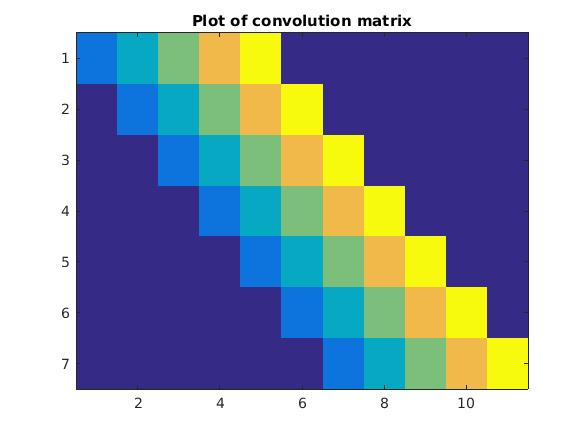
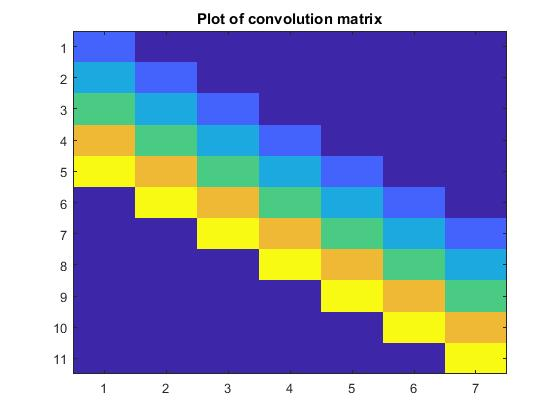
A

diff --git a/lab6/jhutter2.tex b/lab6/jhutter2.tex
@@ -84,15 +84,19 @@ $A = U \Sigma V^H $
 \begin{figure}[H]
 \includegraphics[scale =.5]{report7_eig}
 \end{figure}
+
+
 \begin{figure}[H]
 \includegraphics[scale =.4]{report7_1}
 \includegraphics[scale =.4]{report7_2}
-\includegraphics[scale =.4]{report7_3}
-
 \end{figure}
 
 \begin{figure}[H]
-\includegraphics[scale =.4]{report7_4}
+  \includegraphics[scale =.4]{report7_3}
+  \includegraphics[scale =.4]{report7_4}
+\end{figure}
+
+\begin{figure}[H]
 \includegraphics[scale =.4]{report7_5}
 \includegraphics[scale =.4]{report7_6}
 \end{figure}

diff --git a/lab6/PCAtransform.m b/lab6/PCAtransform.m
@@ -1,9 +1,4 @@
 function [ x_pca ] = PCAtransform( Ux, V, x_orig )
-    %[height,width] = size(x_orig);
-    x_hat = x_orig - Ux;
-    
-   %{ for i=1:height
-   %    x_hat(i,:) = x_orig(i,:) - Ux;
-   %end
-    x_pca =  inv(V) * x_hat';
+x_hat = x_orig - Ux;
+x_pca =  x_hat * V;
 end

diff --git a/lab6/report1.m b/lab6/report1.m
@@ -1,11 +1,11 @@
-x = [ 1 4 -4 -3 2 5 -6];
-h = [1 2 3 4 5];
+x = [ 1 4 -4 -3 2 5 -6]';
+h = [1 2 3 4 5]';
 a = convmtx(h,length(x));
 figure;
 imagesc(a);
 title('Plot of convolution matrix');
 
-cx = x*a;
+cx = a*x;
 c = conv(x,h);
 
 figure;
